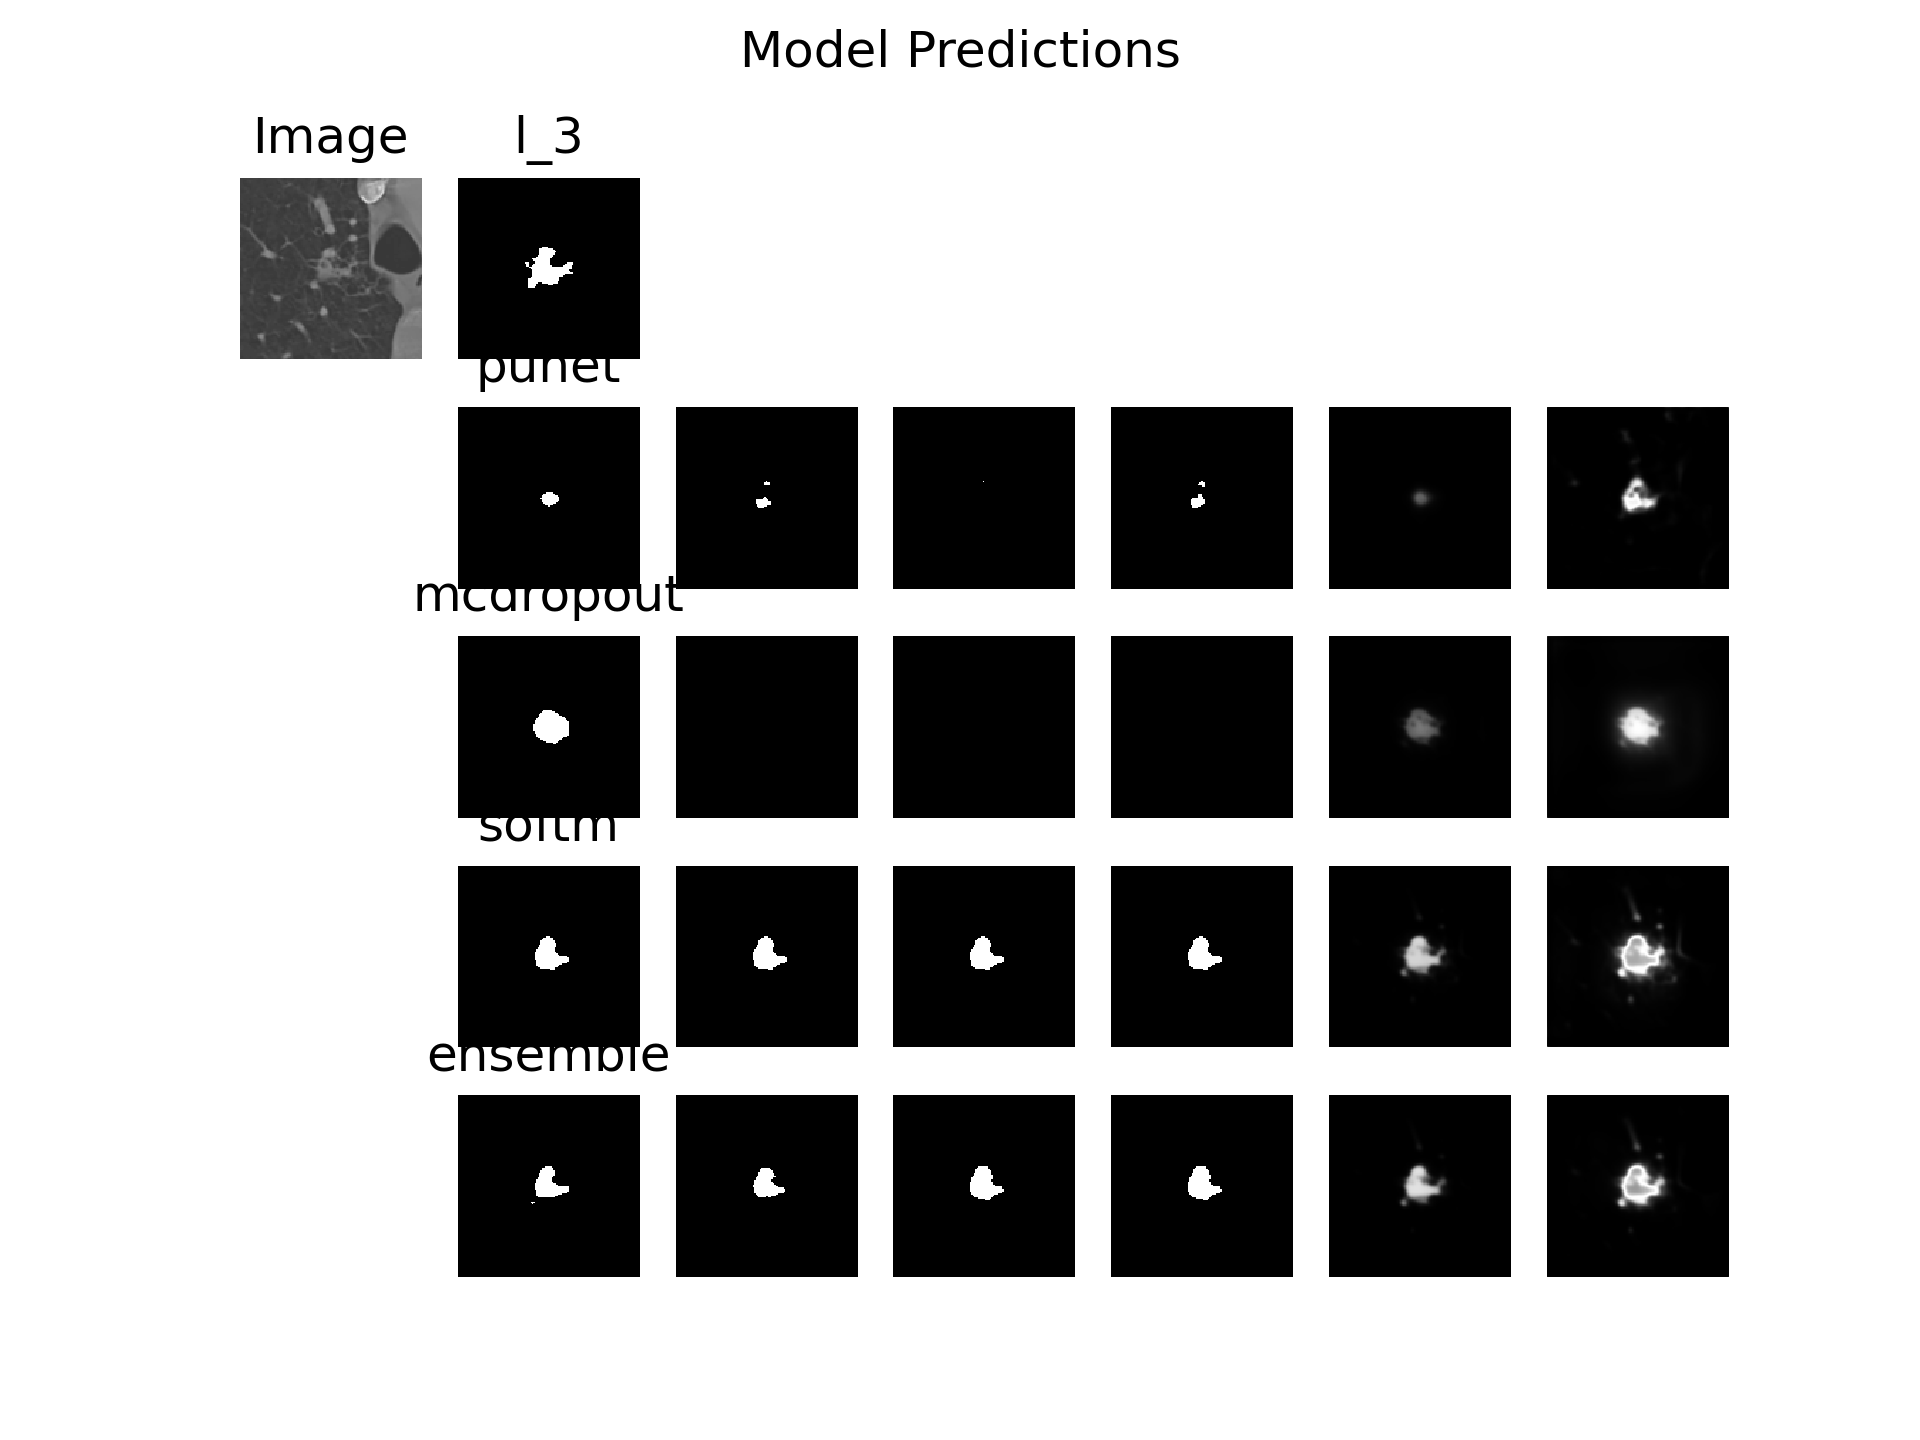
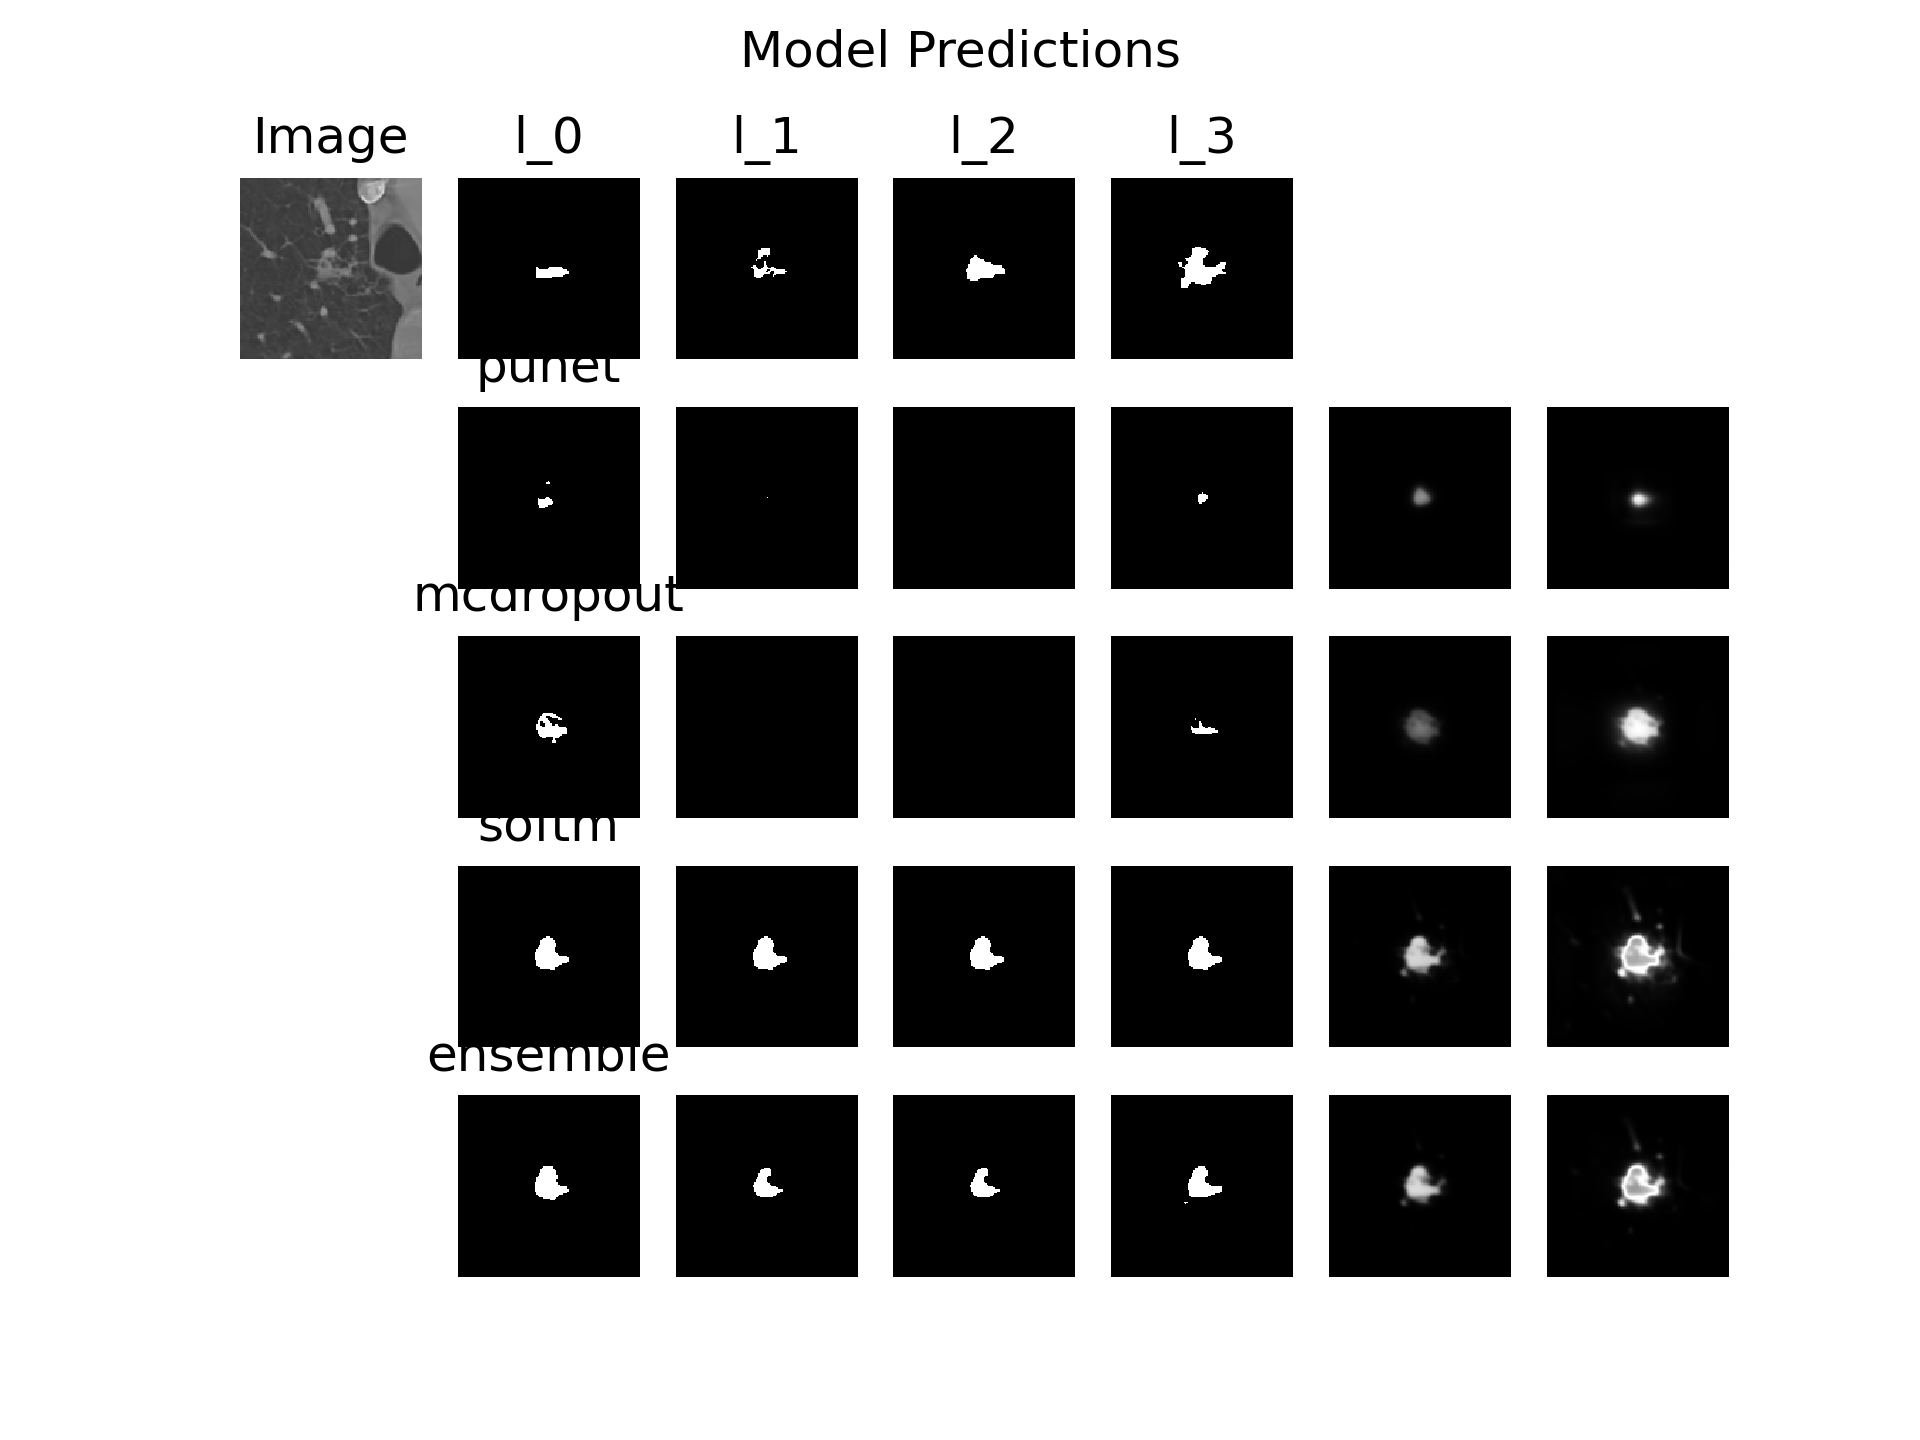
added all gt annotations to plot

Changed region(s): [[0.3438, 0.0938, 0.6875, 0.25], [0.8438, 0.3125, 0.875, 0.375], [0.2812, 0.1562, 0.3125, 0.1875]]

diff --git a/src/plot/viz_predictions.py b/src/plot/viz_predictions.py
@@ -19,7 +19,7 @@ def set_up_figure(model_cnt, sample):
     fig.plot_img(0, 0, sample[0], title="Image", vmin=0, vmax=1)
 
     for i in range(len(sample[1])):
-        fig.plot_img(0, 1, sample[1][i], title=f"l_{i}", vmin=0, vmax=1)
+        fig.plot_img(0, i+1, sample[1][i], title=f"l_{i}", vmin=0, vmax=1)
     return fig
 
 
